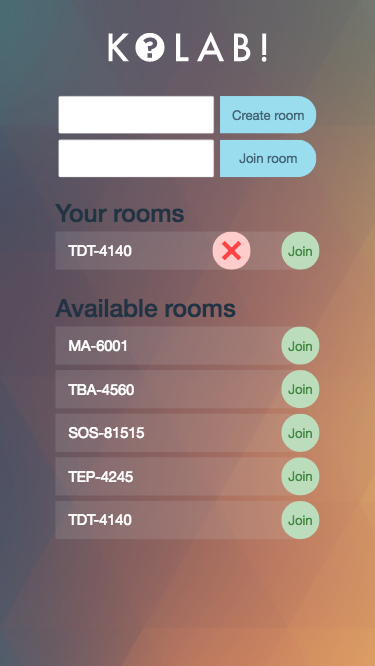
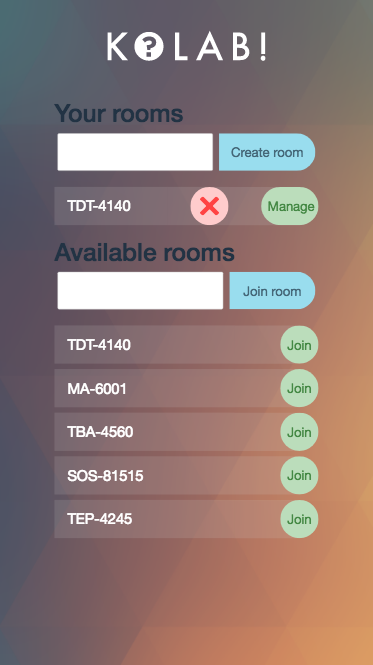
Changed structure of front page and added new screenshot

diff --git a/app/components/front/front.html b/app/components/front/front.html
@@ -3,6 +3,8 @@
         <img class="logo" src="/assets/img/kolab-logo.svg">
         <table class="table">
             <tbody>
+            <h1 class="table-title"> Your rooms</h1>
+
             <tr>
                 <td><textarea title="New room" id="textareaNewRoom" maxlength="140" size="80" class="form-control"
                               ng-model="newRoom.text"
@@ -13,56 +15,63 @@
                     </button>
                 </td>
             </tr>
-            <tr>
-                <td> <textarea title="Join room" id="textareaJoinRoom" maxlength="140" size="80" class="form-control"
-                               ng-model="joinRoom.text"
-                               ng-keyup="$event.keyCode == 13 ? joinRoom() : null"></textarea></td>
-                <td>
-                    <button class="btn btn-lg btn-block btn-send" ng-click="joinRoom()">Join room
-                    </button>
-                </td>
 
-
-                <table id="myRoomsTable" class="table long-table">
-                    <h1 class="table-title" ng-show="myRooms.length > 0"> Your rooms</h1>
-                    <tr ng-repeat="room in myRooms" class="roomRows">
-                        <!--<td>{{question.number}}</td>-->
-                        <td class="td-room">{{room.room}}</td>
-                        <td>
-                            <button class="joinMyRoom btn btn-lg btn-block btn-remove"
-                                    ng-click="deleteRoom($index, room )">
-                                    <img class="lecturer-button-icon" src="../../../assets/img/icons/remove.svg"
-                                     onerror="this.onerror=null; this.src='../../../assets/img/icons/remove.png'">
-                            </button>
-                        </td>
-                        <td>
-                            <button class="joinMyRoom btn btn-lg btn-block btn-join"
-                                    ng-click="joinMyRoom( room.room )">Join
-                            </button>
-                        </td>
-                    </tr>
-
-
-                </table>
-
-
-                <table id="roomsTable" class="table long-table">
-                    <h1 class="table-title" ng-show="kolabDBScope.length <= 0"> No rooms, make one!</h1>
-                    <h1 class="table-title" ng-show="kolabDBScope.length > 0"> Available rooms</h1>
-                    <tr ng-repeat="room in kolabDBScope | filter: joinRoom.text | orderBy:'-'" class="roomRows">
-                        <!--<td>{{question.number}}</td>-->
-                        <td class="td-room">{{room.room}}</td>
-                        <td>
-                            <button class="joinRoom btn btn-lg btn-block btn-join"
-                                    ng-click="joinExistingRoom( room.room )">Join
-                            </button>
-                        </td>
-                    </tr>
-
-
-                </table>
-            </tr>
             </tbody>
+
+            <table id="myRoomsTable" class="table long-table">
+                <h1 class="table-subtext" ng-show="myRooms.length <= 0"> You are currently not managing any rooms, create one.</h1>
+
+                <tr ng-repeat="room in myRooms" class="roomRows">
+                    <!--<td>{{question.number}}</td>-->
+                    <td class="td-room">{{room.room}}</td>
+                    <td>
+                        <button class="joinMyRoom btn btn-lg btn-block btn-remove"
+                                ng-click="deleteRoom($index, room )">
+                            <img class="lecturer-button-icon" src="../../../assets/img/icons/remove.svg"
+                                 onerror="this.onerror=null; this.src='../../../assets/img/icons/remove.png'">
+                        </button>
+                    </td>
+                    <td>
+                        <button class="joinMyRoom btn btn-lg btn-block btn-manage"
+                                ng-click="joinMyRoom( room.room )">Manage
+                        </button>
+                    </td>
+                </tr>
+
+
+            </table>
+            <table class="table">
+                <h1 class="table-title" ng-show="kolabDBScope.length > 0"> Available rooms</h1>
+
+                <tr>
+                    <td> <textarea title="Join room" id="textareaJoinRoom" maxlength="140" size="80"
+                                   class="form-control"
+                                   ng-model="joinRoom.text"
+                                   ng-keyup="$event.keyCode == 13 ? joinRoom() : null"></textarea></td>
+                    <td>
+                        <button class="btn btn-lg btn-block btn-send" ng-click="joinRoom()">Join room
+                        </button>
+                    </td>
+                </tr>
+            </table>
+
+
+            <table id="roomsTable" class="table long-table">
+                <h1 class="table-title" ng-show="kolabDBScope.length <= 0"> No rooms, make one!</h1>
+                <tr ng-repeat="room in kolabDBScope | filter: joinRoom.text | orderBy:'-'" class="roomRows">
+                    <!--<td>{{question.number}}</td>-->
+                    <td class="td-room">{{room.room}}</td>
+                    <td>
+                        <button class="joinRoom btn btn-lg btn-block btn-join"
+                                ng-click="joinExistingRoom( room.room )">Join
+                        </button>
+                    </td>
+                </tr>
+
+
+            </table>
+            </tr>
+        </table>
         </table>
 
         <page-alerts></page-alerts>

diff --git a/app/components/lecturer/lecturer.html b/app/components/lecturer/lecturer.html
@@ -21,35 +21,6 @@
             </tbody>
         </table>
 
-        <!--<table>
-            <tr>
-                <td>
-                    Cant keep up: {{cantKeepUpHits}}
-                </td>
-            <tr>
-                <td>
-                    Increase Speed: {{increaseSpeedHits}}
-                </td>
-            </tr>
-            <tr>
-                <td>
-                    Decrease Speed: {{decreaseSpeedHits}}
-                </td>
-            </tr>
-            <tr>
-                <td>
-                    Increase Volume: {{increaseVolumeHits}}
-                </td>
-            </tr>
-            <tr>
-                <td>
-                    Decrease Volume: {{decreaseVolumeHits}}
-                </td>
-            </tr>
-        </table>-->
-
-
-
         <table class="click-table">
             <tbody>
             <tr>

diff --git a/assets/css/style.css b/assets/css/style.css
@@ -238,8 +238,8 @@ th {
     text-align:left;
     color: #223344;
     text-shadow: 0 0 transparent;
-    margin-top: 50px;
-    margin-bottom: 0px;
+    margin-top: 20px;
+    margin-bottom: 10px;
 }
 
 .long-table{    
@@ -497,6 +497,19 @@ textarea {
     /*margin: 10px 0 10px 0;*/
 }
 
+.btn-manage {
+    height: 50%;
+    width: 50%;
+    font-size: 34px;
+    min-height: 100px;
+    min-width: 150px;
+    max-width: 150px;
+    background: #BBDDBB;
+    color: #448844;
+    border-radius: 50px;
+    /*margin: 10px 0 10px 0;*/
+}
+
 /* IMAGES */
 /********************/
 
@@ -602,6 +615,10 @@ textarea {
 
 .click-table td:last-child .progress {
     border-radius: 0 128px 128px 0;
+}
+
+.table-subtext {
+    font-size: 34px;
 }
 
 

diff --git a/app/components/front/front.controller.js b/app/components/front/front.controller.js
@@ -17,6 +17,7 @@ kolabApp.controller('frontCtrl', ['$scope', "$location", '$http', 'socket', 'ale
             e.preventDefault();
         }
 
+        // Prevents certain keycodes from being pressed;  " , #, $
         if (e.keyCode == 50 && e.shiftKey || e.keyCode == 51 && e.shiftKey || e.keyCode == 52 && e.shiftKey) {
             alertService.addWarning("Special characters are not allowed in rooms.", true);
             e.preventDefault();
